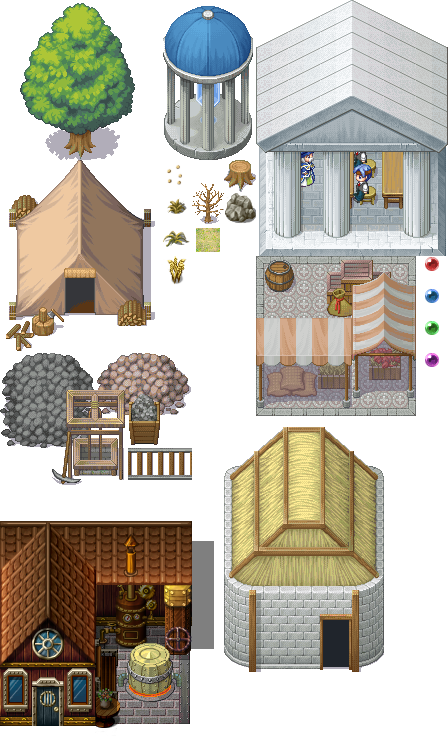
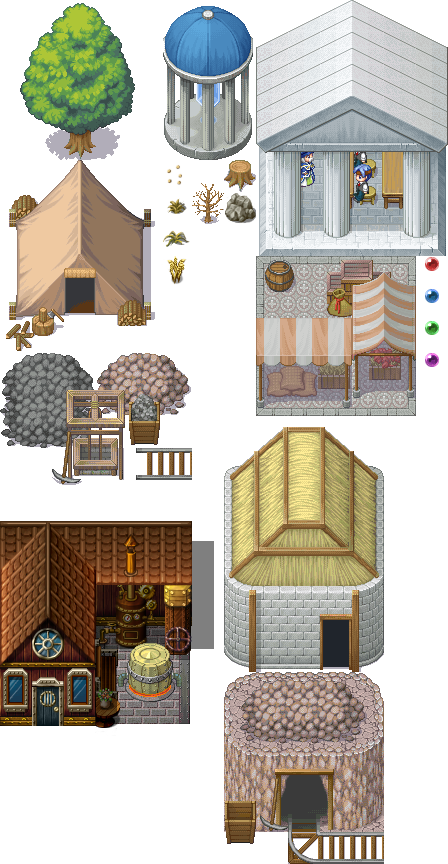
new building: stone quarry

diff --git a/src/main/java/de/dakror/arise/layer/CityLayer.java b/src/main/java/de/dakror/arise/layer/CityLayer.java
@@ -20,6 +20,7 @@ import de.dakror.arise.game.Game;
 import de.dakror.arise.game.building.Building;
 import de.dakror.arise.game.building.Lumberjack;
 import de.dakror.arise.game.building.Mine;
+import de.dakror.arise.game.building.Quarry;
 import de.dakror.arise.game.world.City;
 import de.dakror.arise.settings.Resources;
 import de.dakror.arise.settings.Resources.Resource;
@@ -106,6 +107,17 @@ public class CityLayer extends Layer
 				}
 			});
 			components.add(mine);
+			
+			BuildingButton quarry = new BuildingButton(15 + 128, Game.getHeight() - 64, 48, 48, Game.getImage("system/icons.png").getSubimage(24, 24, 24, 24), new Quarry(0, 0, 0));
+			quarry.addClickEvent(new ClickEvent()
+			{
+				@Override
+				public void trigger()
+				{
+					activeBuilding = new Quarry(0, 0, 0);
+				}
+			});
+			components.add(quarry);
 			
 			ResourceLabel wood = new ResourceLabel(20, 20, resources, Resource.WOOD);
 			components.add(wood);

diff --git a/src/main/java/de/dakror/arise/game/building/Quarry.java b/src/main/java/de/dakror/arise/game/building/Quarry.java
@@ -1,0 +1,24 @@
+package de.dakror.arise.game.building;
+
+/**
+ * @author Dakror
+ */
+public class Quarry extends Building
+{
+	
+	public Quarry(int x, int y, int level)
+	{
+		super(x, y, 5, 6, level);
+		
+		typeId = 4;
+		name = "Steinbruch";
+		desc = "Baut Stein ab, um ihn als Baumaterial zu benutzen.";
+		
+		tx = 7;
+		ty = 21;
+		tw = 5;
+		th = 6;
+		
+		init();
+	}
+}

diff --git a/src/main/java/de/dakror/arise/game/building/Building.java b/src/main/java/de/dakror/arise/game/building/Building.java
@@ -116,6 +116,10 @@ public abstract class Building extends ClickableComponent
 				return new Centre(x, y, level);
 			case 2:
 				return new Lumberjack(x, y, level);
+			case 3:
+				return new Mine(x, y, level);
+			case 4:
+				return new Quarry(x, y, level);
 			default:
 				return null;
 		}
